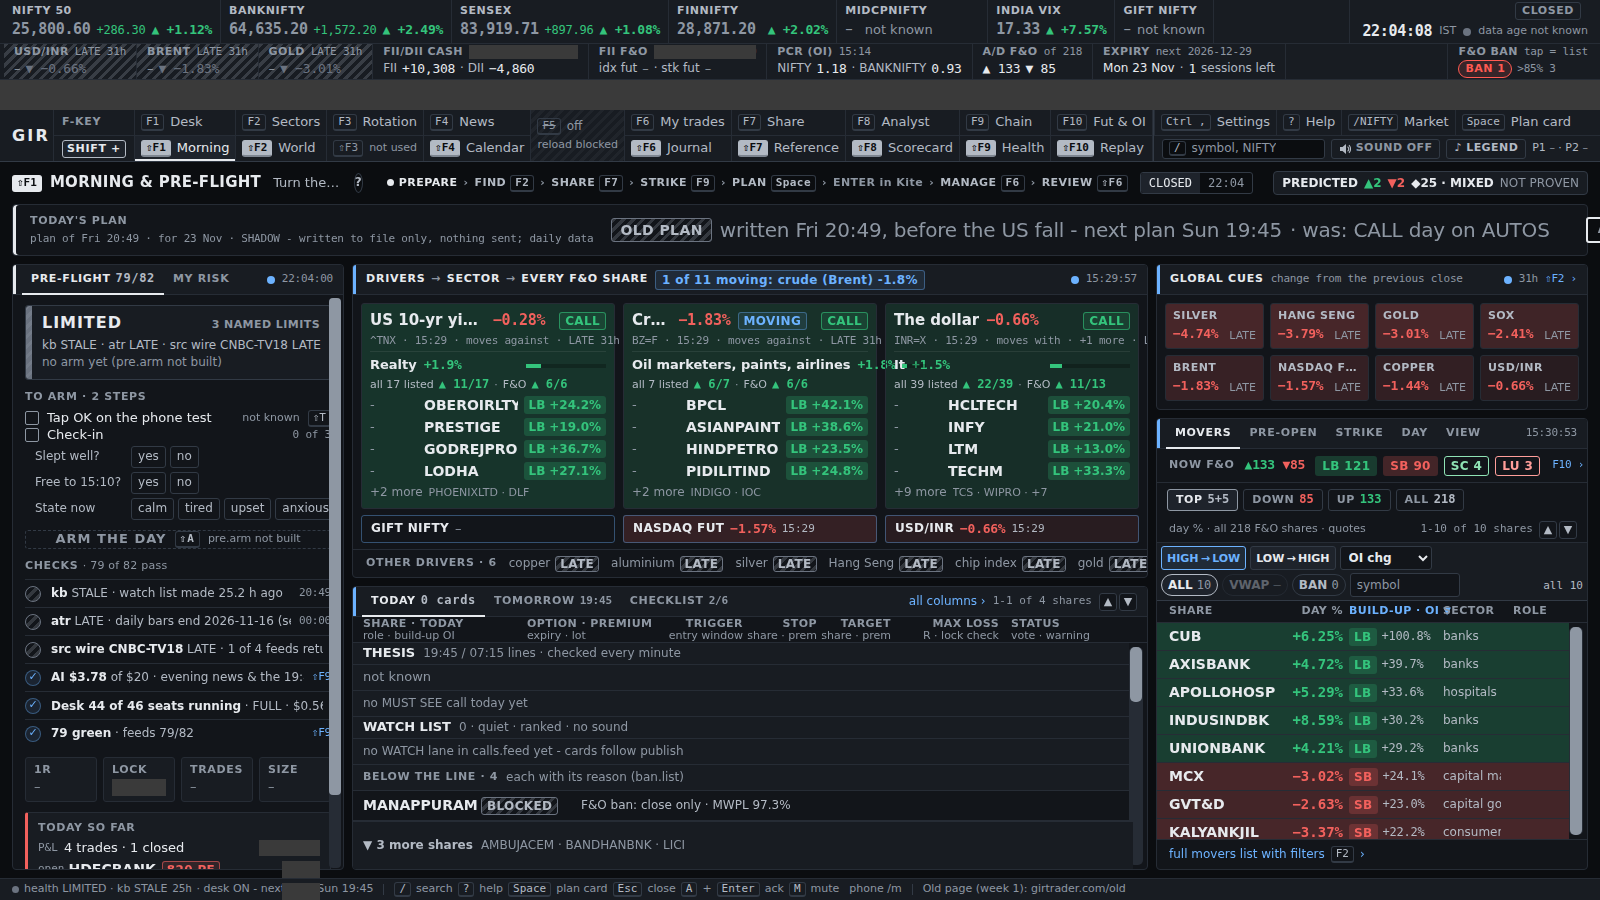
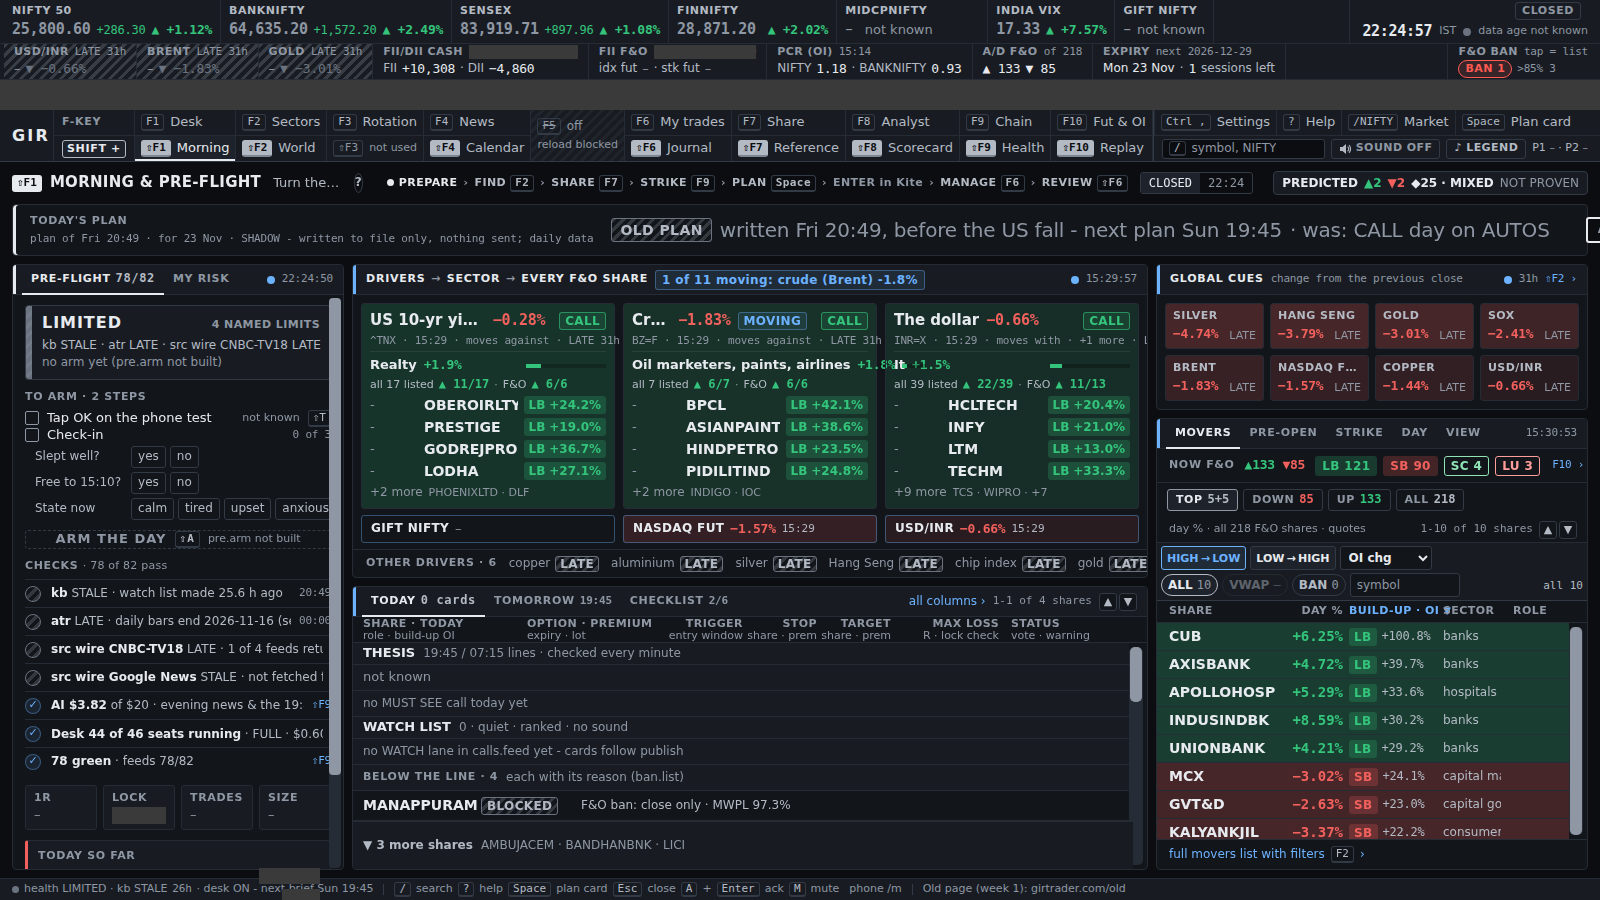
monday: 22:25 WAITING FOR TRADER section (overnight rule)

Changed region(s): [[0.0, 0.7467, 0.2188, 0.9644], [0.1562, 0.9333, 0.2188, 0.9956]]

diff --git a/intraday_patches/monday/STATUS.md b/intraday_patches/monday/STATUS.md
@@ -2,7 +2,7 @@
 
 One row per checklist item (MONDAY_READY.md). Proof files are in this folder. An item without proof is NOT DONE.
 
-Last update: 22:24 IST
+Last update: 22:25 IST
 
 | item | status | note | proof | time |
 |---|---|---|---|---|
@@ -67,6 +67,12 @@ Last update: 22:24 IST
 | J14 Rate limits at cold start | DONE (model; live proof Mon 08:30) | model 07:40-09:30 per key / endpoint (Kite limits: quote 1/s, historical 3/s, other 10/s): 2 bursts over the quote limit (key 1 seclive + futlive from 09:15; key 4 kquote + optdec) -> fixed by a shared per-key spacer (intraday/kiterl.py), 7 services restarted 17:35. MISSED: the old price engine (kept on) is an unspaced key-1 user - being added; live check Mon 08:30 (429 errors in the logs) | J14_ratelimits.md | 21 Nov 17:38 |
 | J15 His Monday routine (trader) | NOT STARTED | trader's own step Mon 08:25 |  |  |
 | J16 Code freeze Sun 16:00 | NOT STARTED | Sun 16:00 |  |  |
+
+## WAITING FOR TRADER (approve in the morning; overnight rule 22:25: steps needing approval are skipped and listed here, all other work carries on)
+- RBI lines live now: Rs 25,000 cr+ RBI operation lines go to Telegram LIVE (India-shock switch on) while trade lines wait for the Sunday ring test - keep live, or hold to the ring test?
+- Friday-evening slow mode: start only after the evening brief? (would catch items like the 19:33 Anthropic slide in time)
+- News gate rule (a): 10 hidden items name an F&O company but are not market news (customer card fraud, staff protest) - may the NOT-market list win, or must "names an F&O company" always show?
+- GitHub token: after you rotate it (Sunday), the new one goes into a credential helper, not the remote URL.
 
 ## Notes for the desk
 - 10:34 - old system STALE alert 09:28 (desk.json 6 min old): cause = the OLD desk service itself. Its cycle stalled 09:22 -> 09:32:50 inside its own AI reader calls ('reader NHPC / CIPLA: no JSON in the answer'), then wrote desk.json at 09:32:50; the alert cleared. Server load was ~9 then, mostly from programs outside GIR v2 (falcon.py ~65% CPU, engine2, gir.py). Not Kite rate limits on key 2 (no 'Too many requests' from the old engine; elon_code.py had 4 today vs 3 yesterday on its own key). The new system's recorders use ~0% CPU and kept recording without a gap. Logged as an old-system fault; nothing changed on the old system.
